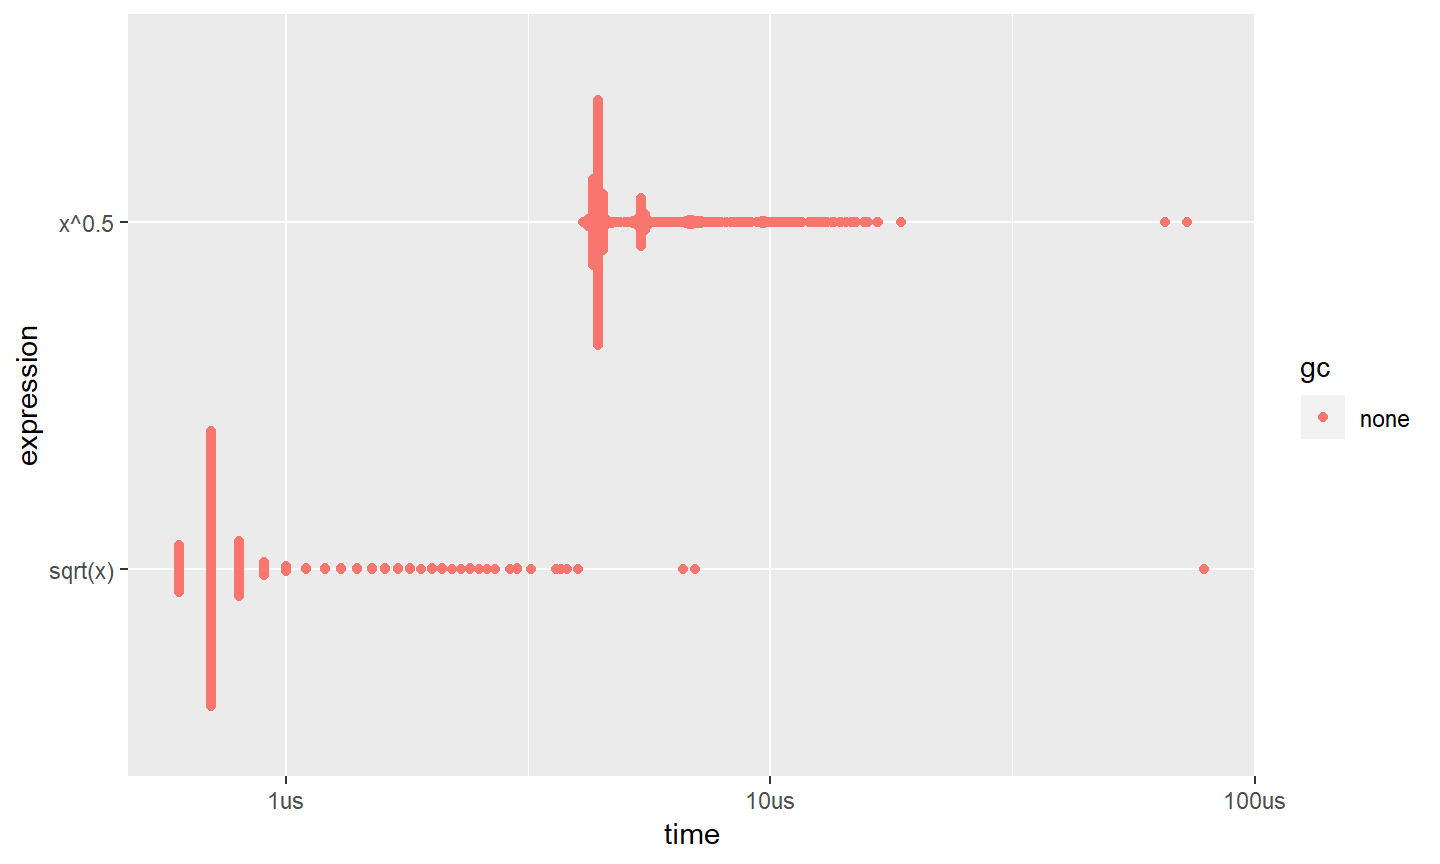
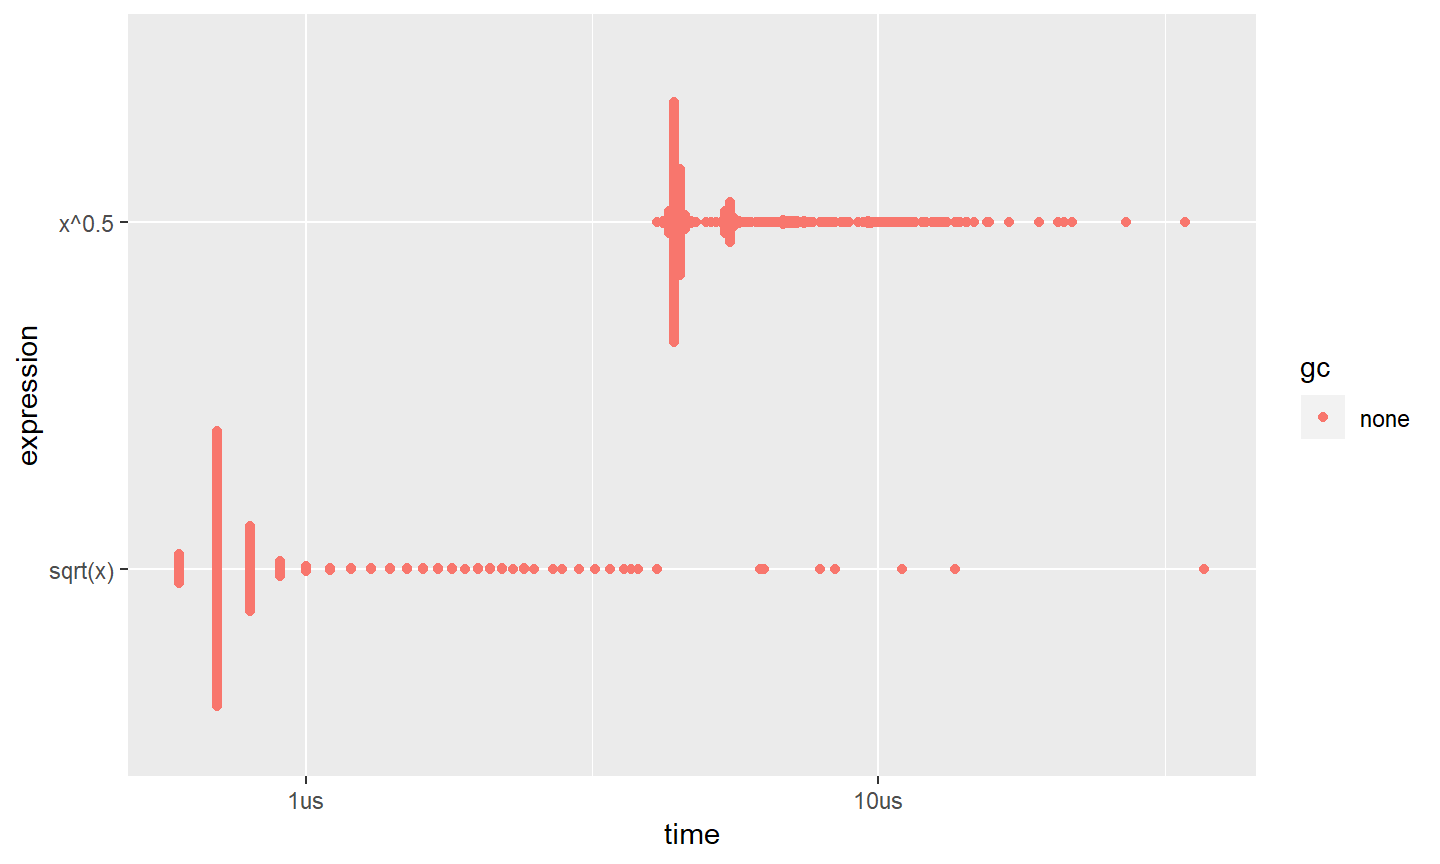
Slides up to parallel computing

diff --git a/Slides/FastRCode-Part-1.html b/Slides/FastRCode-Part-1.html
@@ -235,14 +235,14 @@ bm1 &lt;- bench::mark(
 <pre >## # A tibble: 2 x 6
 ##   expression      min   median `itr/sec` mem_alloc `gc/sec`
 ##   &lt;bch:expr&gt; &lt;bch:tm&gt; &lt;bch:tm&gt;     &lt;dbl&gt; &lt;bch:byt&gt;    &lt;dbl&gt;
-## 1 x^0.5         4.1us    4.4us   209759.      848B        0
-## 2 sqrt(x)       600ns    700ns  1366811.      848B        0</pre>
+## 1 x^0.5         4.1us    4.4us   208345.      848B        0
+## 2 sqrt(x)       600ns    700ns  1343616.      848B        0</pre>
 
 </article></slide><slide class=""><hgroup><h2>bench::mark() - Example</h2></hgroup><article  id="benchmark---example-2">
 
 <pre >## Loading required namespace: tidyr</pre>
 
[2 lines of base64/hex data omitted]
 
 </article></slide><slide class=""><hgroup><h2>bench::mark() - Limitations</h2></hgroup><article  id="benchmark---limitations">
 
@@ -277,8 +277,8 @@ h &lt;- function() {
 source(&quot;../Simple R Functions.R&quot;)
 profvis(f())</pre>
 
-<div id="htmlwidget-c4c6b5c2228188ec051c" style="width:100%;height:600px;" class="profvis html-widget"></div>
-<script type="application/json" data-for="htmlwidget-c4c6b5c2228188ec051c">{"x":{"message":{"prof":{"time":[1,1,1,1,1,1,1,1,1,1,1,1,1,1,1,1,1,1,1,1,2,2,3,3,4,4,5,5,6,6,7,7,7,8,8,8,9,9,9,10,10,10,11,11,11,12,12,12,12,13,13,13,13,14,14,14,14,15,15,15,15,16,16,16,16,17,17,17,18,18,18,19,19,19,20,20,20,21,21,21],"depth":[20,19,18,17,16,15,14,13,12,11,10,9,8,7,6,5,4,3,2,1,2,1,2,1,2,1,2,1,2,1,3,2,1,3,2,1,3,2,1,3,2,1,3,2,1,4,3,2,1,4,3,2,1,4,3,2,1,4,3,2,1,4,3,2,1,3,2,1,3,2,1,3,2,1,3,2,1,3,2,1],"label":["Rprof","profvis","eval","eval","withVisible","withCallingHandlers","handle","timing_fn","evaluate_call","evaluate::evaluate","evaluate","in_dir","block_exec","call_block","process_group.block","process_group","withCallingHandlers","process_file","knitr::knit","rmarkdown::render","pause","f","pause","f","pause","f","pause","f","pause","f","pause","g","f","pause","g","f","pause","g","f","pause","g","f","pause","g","f","pause","h","g","f","pause","h","g","f","pause","h","g","f","pause","h","g","f","pause","h","g","f","pause","h","f","pause","h","f","pause","h","f","pause","h","f","pause","h","f"],"filenum":[null,null,null,null,null,null,null,null,null,null,null,null,null,null,null,null,null,null,null,null,null,null,null,null,null,null,null,null,null,null,null,null,null,null,null,null,null,null,null,null,null,null,null,null,null,null,null,null,null,null,null,null,null,null,null,null,null,null,null,null,null,null,null,null,null,null,null,null,null,null,null,null,null,null,null,null,null,null,null,null],"linenum":[null,null,null,null,null,null,null,null,null,null,null,null,null,null,null,null,null,null,null,null,null,null,null,null,null,null,null,null,null,null,null,null,null,null,null,null,null,null,null,null,null,null,null,null,null,null,null,null,null,null,null,null,null,null,null,null,null,null,null,null,null,null,null,null,null,null,null,null,null,null,null,null,null,null,null,null,null,null,null,null],"memalloc":[13.8510131835938,13.8510131835938,13.8510131835938,13.8510131835938,13.8510131835938,13.8510131835938,13.8510131835938,13.8510131835938,13.8510131835938,13.8510131835938,13.8510131835938,13.8510131835938,13.8510131835938,13.8510131835938,13.8510131835938,13.8510131835938,13.8510131835938,13.8510131835938,13.8510131835938,13.8510131835938,13.8539810180664,13.8539810180664,13.8539810180664,13.8539810180664,13.8539810180664,13.8539810180664,13.8539810180664,13.8539810180664,13.8539810180664,13.8539810180664,13.8539810180664,13.8539810180664,13.8539810180664,13.8539810180664,13.8539810180664,13.8539810180664,13.8539810180664,13.8539810180664,13.8539810180664,13.8539810180664,13.8539810180664,13.8539810180664,13.8539810180664,13.8539810180664,13.8539810180664,13.8539810180664,13.8539810180664,13.8539810180664,13.8539810180664,13.8539810180664,13.8539810180664,13.8539810180664,13.8539810180664,13.8539810180664,13.8539810180664,13.8539810180664,13.8539810180664,13.8539810180664,13.8539810180664,13.8539810180664,13.8539810180664,13.8539810180664,13.8539810180664,13.8539810180664,13.8539810180664,13.8789443969727,13.8789443969727,13.8789443969727,13.8789443969727,13.8789443969727,13.8789443969727,13.8789443969727,13.8789443969727,13.8789443969727,13.8789443969727,13.8789443969727,13.8789443969727,13.8789443969727,13.8789443969727,13.8789443969727],"meminc":[0,0,0,0,0,0,0,0,0,0,0,0,0,0,0,0,0,0,0,0,0.00296783447265625,0,0,0,0,0,0,0,0,0,0,0,0,0,0,0,0,0,0,0,0,0,0,0,0,0,0,0,0,0,0,0,0,0,0,0,0,0,0,0,0,0,0,0,0,0.02496337890625,0,0,0,0,0,0,0,0,0,0,0,0,0,0],"filename":[null,null,null,null,null,null,null,null,null,null,null,null,null,null,null,null,null,null,null,null,null,null,null,null,null,null,null,null,null,null,null,null,null,null,null,null,null,null,null,null,null,null,null,null,null,null,null,null,null,null,null,null,null,null,null,null,null,null,null,null,null,null,null,null,null,null,null,null,null,null,null,null,null,null,null,null,null,null,null,null]},"interval":10,"files":[],"prof_output":"C:\\Users\\Desktop\\AppData\\Local\\Temp\\RtmpCM9SlR\\file2bb4139cd2.prof","highlight":{"output":["^output\\$"],"gc":["^<GC>$"],"stacktrace":["^\\.\\.stacktraceo(n|ff)\\.\\.$"]},"split":"h"}},"evals":[],"jsHooks":[]}</script>
+<div id="htmlwidget-b0718eb0f4279e8e3231" style="width:100%;height:600px;" class="profvis html-widget"></div>
+<script type="application/json" data-for="htmlwidget-b0718eb0f4279e8e3231">{"x":{"message":{"prof":{"time":[1,1,1,1,1,1,1,1,1,1,1,1,1,1,1,1,1,1,1,1,2,2,3,3,4,4,5,5,6,6,7,7,8,8,8,9,9,9,10,10,10,11,11,11,12,12,12,13,13,13,14,14,14,14,15,15,15,15,16,16,16,16,17,17,17,17,18,18,18,18,19,19,19,20,20,20,21,21,21,22,22,22,23,23,23],"depth":[20,19,18,17,16,15,14,13,12,11,10,9,8,7,6,5,4,3,2,1,2,1,2,1,2,1,2,1,2,1,2,1,3,2,1,3,2,1,3,2,1,3,2,1,3,2,1,3,2,1,4,3,2,1,4,3,2,1,4,3,2,1,4,3,2,1,4,3,2,1,3,2,1,3,2,1,3,2,1,3,2,1,3,2,1],"label":["Rprof","profvis","eval","eval","withVisible","withCallingHandlers","handle","timing_fn","evaluate_call","evaluate::evaluate","evaluate","in_dir","block_exec","call_block","process_group.block","process_group","withCallingHandlers","process_file","knitr::knit","rmarkdown::render","pause","f","pause","f","pause","f","pause","f","pause","f","pause","f","pause","g","f","pause","g","f","pause","g","f","pause","g","f","pause","g","f","pause","g","f","pause","h","g","f","pause","h","g","f","pause","h","g","f","pause","h","g","f","pause","h","g","f","pause","h","f","pause","h","f","pause","h","f","pause","h","f","pause","h","f"],"filenum":[null,null,null,null,null,null,null,null,null,null,null,null,null,null,null,null,null,null,null,null,null,null,null,null,null,null,null,null,null,null,null,null,null,null,null,null,null,null,null,null,null,null,null,null,null,null,null,null,null,null,null,null,null,null,null,null,null,null,null,null,null,null,null,null,null,null,null,null,null,null,null,null,null,null,null,null,null,null,null,null,null,null,null,null,null],"linenum":[null,null,null,null,null,null,null,null,null,null,null,null,null,null,null,null,null,null,null,null,null,null,null,null,null,null,null,null,null,null,null,null,null,null,null,null,null,null,null,null,null,null,null,null,null,null,null,null,null,null,null,null,null,null,null,null,null,null,null,null,null,null,null,null,null,null,null,null,null,null,null,null,null,null,null,null,null,null,null,null,null,null,null,null,null],"memalloc":[13.8559341430664,13.8559341430664,13.8559341430664,13.8559341430664,13.8559341430664,13.8559341430664,13.8559341430664,13.8559341430664,13.8559341430664,13.8559341430664,13.8559341430664,13.8559341430664,13.8559341430664,13.8559341430664,13.8559341430664,13.8559341430664,13.8559341430664,13.8559341430664,13.8559341430664,13.8559341430664,13.8589019775391,13.8589019775391,13.8589019775391,13.8589019775391,13.8589019775391,13.8589019775391,13.8589019775391,13.8589019775391,13.8589019775391,13.8589019775391,13.8589019775391,13.8589019775391,13.8589019775391,13.8589019775391,13.8589019775391,13.8589019775391,13.8589019775391,13.8589019775391,13.8589019775391,13.8589019775391,13.8589019775391,13.8589019775391,13.8589019775391,13.8589019775391,13.8589019775391,13.8589019775391,13.8589019775391,13.8589019775391,13.8589019775391,13.8589019775391,13.8589019775391,13.8589019775391,13.8589019775391,13.8589019775391,13.8589019775391,13.8589019775391,13.8589019775391,13.8589019775391,13.8589019775391,13.8589019775391,13.8589019775391,13.8589019775391,13.8589019775391,13.8589019775391,13.8589019775391,13.8589019775391,13.8589019775391,13.8589019775391,13.8589019775391,13.8589019775391,13.8838653564453,13.8838653564453,13.8838653564453,13.8838653564453,13.8838653564453,13.8838653564453,13.8838653564453,13.8838653564453,13.8838653564453,13.8838653564453,13.8838653564453,13.8838653564453,13.8838653564453,13.8838653564453,13.8838653564453],"meminc":[0,0,0,0,0,0,0,0,0,0,0,0,0,0,0,0,0,0,0,0,0.00296783447265625,0,0,0,0,0,0,0,0,0,0,0,0,0,0,0,0,0,0,0,0,0,0,0,0,0,0,0,0,0,0,0,0,0,0,0,0,0,0,0,0,0,0,0,0,0,0,0,0,0,0.02496337890625,0,0,0,0,0,0,0,0,0,0,0,0,0,0],"filename":[null,null,null,null,null,null,null,null,null,null,null,null,null,null,null,null,null,null,null,null,null,null,null,null,null,null,null,null,null,null,null,null,null,null,null,null,null,null,null,null,null,null,null,null,null,null,null,null,null,null,null,null,null,null,null,null,null,null,null,null,null,null,null,null,null,null,null,null,null,null,null,null,null,null,null,null,null,null,null,null,null,null,null,null,null]},"interval":10,"files":[],"prof_output":"C:\\Users\\Desktop\\AppData\\Local\\Temp\\RtmpyAtfQA\\file1b2833eb1970.prof","highlight":{"output":["^output\\$"],"gc":["^<GC>$"],"stacktrace":["^\\.\\.stacktraceo(n|ff)\\.\\.$"]},"split":"h"}},"evals":[],"jsHooks":[]}</script>
 
 </article></slide><slide class=""><hgroup><h2>profvis() - What Do We See?</h2></hgroup><article  id="profvis---what-do-we-see">
 
@@ -341,8 +341,8 @@ bm2</pre>
 <pre >## # A tibble: 2 x 6
 ##   expression                 min   median `itr/sec` mem_alloc `gc/sec`
 ##   &lt;bch:expr&gt;            &lt;bch:tm&gt; &lt;bch:tm&gt;     &lt;dbl&gt; &lt;bch:byt&gt;    &lt;dbl&gt;
-## 1 add_vecs1(vec1, vec2)   10.5us   10.7us    89977.   53.98KB      0  
-## 2 add_vecs2(vec1, vec2)    800ns    900ns   844082.    1.31KB     84.4</pre>
+## 1 add_vecs1(vec1, vec2)   10.5us   10.8us    89874.   53.98KB      0  
+## 2 add_vecs2(vec1, vec2)    800ns    900ns   824435.    1.31KB     82.5</pre>
 
 </article></slide><slide class=""><hgroup><h2>Vectorization - Problem #1</h2></hgroup><article  id="vectorization---problem-1">
 
@@ -424,9 +424,9 @@ bm3</pre>
 <pre >## # A tibble: 3 x 6
 ##   expression                                     min median `itr/sec` mem_alloc
 ##   &lt;bch:expr&gt;                                  &lt;bch:&gt; &lt;bch:&gt;     &lt;dbl&gt; &lt;bch:byt&gt;
-## 1 makemat1(nrow = 10, ncol = 10, seed = 9823) 39.9us 43.9us    21908.   88.39KB
-## 2 makemat2(nrow = 10, ncol = 10, seed = 9823) 28.9us 31.2us    31360.   73.63KB
-## 3 makemat3(nrow = 10, ncol = 10, seed = 9823) 13.6us 14.5us    65607.    6.64KB
+## 1 makemat1(nrow = 10, ncol = 10, seed = 9823) 40.2us 43.7us    22010.   88.39KB
+## 2 makemat2(nrow = 10, ncol = 10, seed = 9823) 28.8us 30.9us    31895.   73.63KB
+## 3 makemat3(nrow = 10, ncol = 10, seed = 9823) 13.6us 14.5us    65846.    6.64KB
 ## # ... with 1 more variable: `gc/sec` &lt;dbl&gt;</pre>
 
 </article></slide><slide class=""><hgroup><h2>Preallocation - What&#39;s Happening?</h2></hgroup><article  id="preallocation---whats-happening">
@@ -439,28 +439,31 @@ bm3</pre>
 
 <p>Consider the following (somewhat surprising) example:</p>
 
-<pre class = 'prettyprint lang-r'>X &lt;- data.frame(matrix(rnorm(10000), ncol=3))
+<pre class = 'prettyprint lang-r'>X &lt;- data.frame(matrix(rnorm(10000), ncol=4))
 medians &lt;- vapply(X, median, numeric(1))
 
 cat(tracemem(X), &quot;\n&quot;)</pre>
 
-<pre >## &lt;000000000CE18F58&gt;</pre>
+<pre >## &lt;000000000E273530&gt;</pre>
 
 </article></slide><slide class=""><hgroup><h2>Copy-on-Modify and Modify-in-Place</h2></hgroup><article  id="copy-on-modify-and-modify-in-place-1">
 
-<pre class = 'prettyprint lang-r'>for (i in 1:3) {
+<pre class = 'prettyprint lang-r'>for (i in 1:4) {
   X[[i]] &lt;- X[[i]] - medians[[i]]
 }</pre>
 
-<pre >## tracemem[0x000000000ce18f58 -&gt; 0x000000000a16feb0]: eval eval withVisible withCallingHandlers handle timing_fn evaluate_call &lt;Anonymous&gt; evaluate in_dir block_exec call_block process_group.block process_group withCallingHandlers process_file &lt;Anonymous&gt; &lt;Anonymous&gt; 
-## tracemem[0x000000000a16feb0 -&gt; 0x000000000a170cc0]: [[&lt;-.data.frame [[&lt;- eval eval withVisible withCallingHandlers handle timing_fn evaluate_call &lt;Anonymous&gt; evaluate in_dir block_exec call_block process_group.block process_group withCallingHandlers process_file &lt;Anonymous&gt; &lt;Anonymous&gt; 
-## tracemem[0x000000000a170cc0 -&gt; 0x000000000a1d13a0]: [[&lt;-.data.frame [[&lt;- eval eval withVisible withCallingHandlers handle timing_fn evaluate_call &lt;Anonymous&gt; evaluate in_dir block_exec call_block process_group.block process_group withCallingHandlers process_file &lt;Anonymous&gt; &lt;Anonymous&gt; 
-## tracemem[0x000000000a1d13a0 -&gt; 0x000000000a1d18f0]: eval eval withVisible withCallingHandlers handle timing_fn evaluate_call &lt;Anonymous&gt; evaluate in_dir block_exec call_block process_group.block process_group withCallingHandlers process_file &lt;Anonymous&gt; &lt;Anonymous&gt; 
-## tracemem[0x000000000a1d18f0 -&gt; 0x000000000a1d1e40]: [[&lt;-.data.frame [[&lt;- eval eval withVisible withCallingHandlers handle timing_fn evaluate_call &lt;Anonymous&gt; evaluate in_dir block_exec call_block process_group.block process_group withCallingHandlers process_file &lt;Anonymous&gt; &lt;Anonymous&gt; 
-## tracemem[0x000000000a1d1e40 -&gt; 0x000000000a1d2200]: [[&lt;-.data.frame [[&lt;- eval eval withVisible withCallingHandlers handle timing_fn evaluate_call &lt;Anonymous&gt; evaluate in_dir block_exec call_block process_group.block process_group withCallingHandlers process_file &lt;Anonymous&gt; &lt;Anonymous&gt; 
-## tracemem[0x000000000a1d2200 -&gt; 0x000000000a1d2340]: eval eval withVisible withCallingHandlers handle timing_fn evaluate_call &lt;Anonymous&gt; evaluate in_dir block_exec call_block process_group.block process_group withCallingHandlers process_file &lt;Anonymous&gt; &lt;Anonymous&gt; 
-## tracemem[0x000000000a1d2340 -&gt; 0x000000000a1d2840]: [[&lt;-.data.frame [[&lt;- eval eval withVisible withCallingHandlers handle timing_fn evaluate_call &lt;Anonymous&gt; evaluate in_dir block_exec call_block process_group.block process_group withCallingHandlers process_file &lt;Anonymous&gt; &lt;Anonymous&gt; 
-## tracemem[0x000000000a1d2840 -&gt; 0x000000000a1d2cf0]: [[&lt;-.data.frame [[&lt;- eval eval withVisible withCallingHandlers handle timing_fn evaluate_call &lt;Anonymous&gt; evaluate in_dir block_exec call_block process_group.block process_group withCallingHandlers process_file &lt;Anonymous&gt; &lt;Anonymous&gt;</pre>
+<pre >## tracemem[0x000000000e273530 -&gt; 0x000000000e1cf298]: eval eval withVisible withCallingHandlers handle timing_fn evaluate_call &lt;Anonymous&gt; evaluate in_dir block_exec call_block process_group.block process_group withCallingHandlers process_file &lt;Anonymous&gt; &lt;Anonymous&gt; 
+## tracemem[0x000000000e1cf298 -&gt; 0x000000000e1cf1a8]: [[&lt;-.data.frame [[&lt;- eval eval withVisible withCallingHandlers handle timing_fn evaluate_call &lt;Anonymous&gt; evaluate in_dir block_exec call_block process_group.block process_group withCallingHandlers process_file &lt;Anonymous&gt; &lt;Anonymous&gt; 
+## tracemem[0x000000000e1cf1a8 -&gt; 0x000000000e1cf158]: [[&lt;-.data.frame [[&lt;- eval eval withVisible withCallingHandlers handle timing_fn evaluate_call &lt;Anonymous&gt; evaluate in_dir block_exec call_block process_group.block process_group withCallingHandlers process_file &lt;Anonymous&gt; &lt;Anonymous&gt; 
+## tracemem[0x000000000e1cf158 -&gt; 0x000000000e1cf068]: eval eval withVisible withCallingHandlers handle timing_fn evaluate_call &lt;Anonymous&gt; evaluate in_dir block_exec call_block process_group.block process_group withCallingHandlers process_file &lt;Anonymous&gt; &lt;Anonymous&gt; 
+## tracemem[0x000000000e1cf068 -&gt; 0x000000000e1cef28]: [[&lt;-.data.frame [[&lt;- eval eval withVisible withCallingHandlers handle timing_fn evaluate_call &lt;Anonymous&gt; evaluate in_dir block_exec call_block process_group.block process_group withCallingHandlers process_file &lt;Anonymous&gt; &lt;Anonymous&gt; 
+## tracemem[0x000000000e1cef28 -&gt; 0x000000000e1ceed8]: [[&lt;-.data.frame [[&lt;- eval eval withVisible withCallingHandlers handle timing_fn evaluate_call &lt;Anonymous&gt; evaluate in_dir block_exec call_block process_group.block process_group withCallingHandlers process_file &lt;Anonymous&gt; &lt;Anonymous&gt; 
+## tracemem[0x000000000e1ceed8 -&gt; 0x000000000e1cee38]: eval eval withVisible withCallingHandlers handle timing_fn evaluate_call &lt;Anonymous&gt; evaluate in_dir block_exec call_block process_group.block process_group withCallingHandlers process_file &lt;Anonymous&gt; &lt;Anonymous&gt; 
+## tracemem[0x000000000e1cee38 -&gt; 0x000000000e1ced48]: [[&lt;-.data.frame [[&lt;- eval eval withVisible withCallingHandlers handle timing_fn evaluate_call &lt;Anonymous&gt; evaluate in_dir block_exec call_block process_group.block process_group withCallingHandlers process_file &lt;Anonymous&gt; &lt;Anonymous&gt; 
+## tracemem[0x000000000e1ced48 -&gt; 0x000000000e1cecf8]: [[&lt;-.data.frame [[&lt;- eval eval withVisible withCallingHandlers handle timing_fn evaluate_call &lt;Anonymous&gt; evaluate in_dir block_exec call_block process_group.block process_group withCallingHandlers process_file &lt;Anonymous&gt; &lt;Anonymous&gt; 
+## tracemem[0x000000000e1cecf8 -&gt; 0x000000000e1cec58]: eval eval withVisible withCallingHandlers handle timing_fn evaluate_call &lt;Anonymous&gt; evaluate in_dir block_exec call_block process_group.block process_group withCallingHandlers process_file &lt;Anonymous&gt; &lt;Anonymous&gt; 
+## tracemem[0x000000000e1cec58 -&gt; 0x000000000e1ceb68]: [[&lt;-.data.frame [[&lt;- eval eval withVisible withCallingHandlers handle timing_fn evaluate_call &lt;Anonymous&gt; evaluate in_dir block_exec call_block process_group.block process_group withCallingHandlers process_file &lt;Anonymous&gt; &lt;Anonymous&gt; 
+## tracemem[0x000000000e1ceb68 -&gt; 0x000000000e1ceb18]: [[&lt;-.data.frame [[&lt;- eval eval withVisible withCallingHandlers handle timing_fn evaluate_call &lt;Anonymous&gt; evaluate in_dir block_exec call_block process_group.block process_group withCallingHandlers process_file &lt;Anonymous&gt; &lt;Anonymous&gt;</pre>
 
 <pre class = 'prettyprint lang-r'>untracemem(X)</pre>
 
@@ -531,9 +534,35 @@ cat(tracemem(X), &quot;\n&quot;)</pre>
 
 <p>&quot;Big Data&quot;: the difference can be HUGE!</p>
 
-</article></slide><slide class=""><hgroup><h2>Useful Functions</h2></hgroup><article  id="useful-functions">
+</article></slide><slide class=""><hgroup><h2>Useful Functions - cumsum()</h2></hgroup><article  id="useful-functions---cumsum">
+
+<p>Many times I&#39;ve had to get a running total or average in a relatively large dataset</p>
+
+<p>cumsum() - cumulative sum</p>
+
+<p>Good to know it exists</p>
+
+</article></slide><slide class=""><hgroup><h2>Useful Data Structure - data.table</h2></hgroup><article  id="useful-data-structure---data.table">
+
+<p>data.table - alternative to data.frame</p>
+
+<p>Great for large datasets, subset, join, group, etc.</p>
+
+<p>Very, very fast!</p>
 
 </article></slide><slide class=""><hgroup><h2>The Apply Family</h2></hgroup><article  id="the-apply-family">
+
+<p>apply(), lapply(), sapply(), tapply()</p>
+
+<p>These are often for loops in disguise <i>(not just my opinion)</i></p>
+
+<p>If you write your for loops well, &quot;apply&quot; functions are not always necessary</p>
+
+<ul>
+<li>Preallocation, remove indexing variables</li>
+</ul>
+
+<p>Plus, you can then actually understand your code ;)</p>
 
 </article></slide><slide class=""><hgroup><h2>Checkpoint - Problem #2</h2></hgroup><article  id="checkpoint---problem-2">
 
@@ -555,6 +584,8 @@ Problem #2
 Try to make your R code as fast as possible
 First, you must figure out what the code below is doing
 Then, rewrite the code in a separate code chunk and use system.time() to get an estimate
+This is a fake dataset of people's names, height, weight, and age
+  Units are not specified, since this is mostly imaginary (you might even see negative numbers)
 -->
 
 <!-- DO NOT try to make this part of the code faster!!!  -->
@@ -605,6 +636,15 @@ Then, rewrite the code in a separate code chunk and use system.time() to get an 
 <p>These topics were intended to be in Part 2 of the workshop (over the summer)</p>
 
 </article></slide><slide class="segue dark nobackground level1"><hgroup class = 'auto-fadein'><h2>Advanced Topics: Parallel Computing in R</h2></hgroup><article  id="advanced-topics-parallel-computing-in-r">
+
+</article></slide><slide class=""><hgroup><h2>Available packages</h2></hgroup><article  id="available-packages">
+
+<p>We can use one of the following packages:</p>
+
+<ul>
+<li><p>&quot;foreach&quot; / &quot;doParallel&quot;</p></li>
+<li><p>&quot;parallel&quot;</p></li>
+</ul>
 
 </article></slide><slide class="segue dark nobackground level1"><hgroup class = 'auto-fadein'><h2>Advanced Topics: Rcpp</h2></hgroup><article  id="advanced-topics-rcpp"></article></slide>
 
